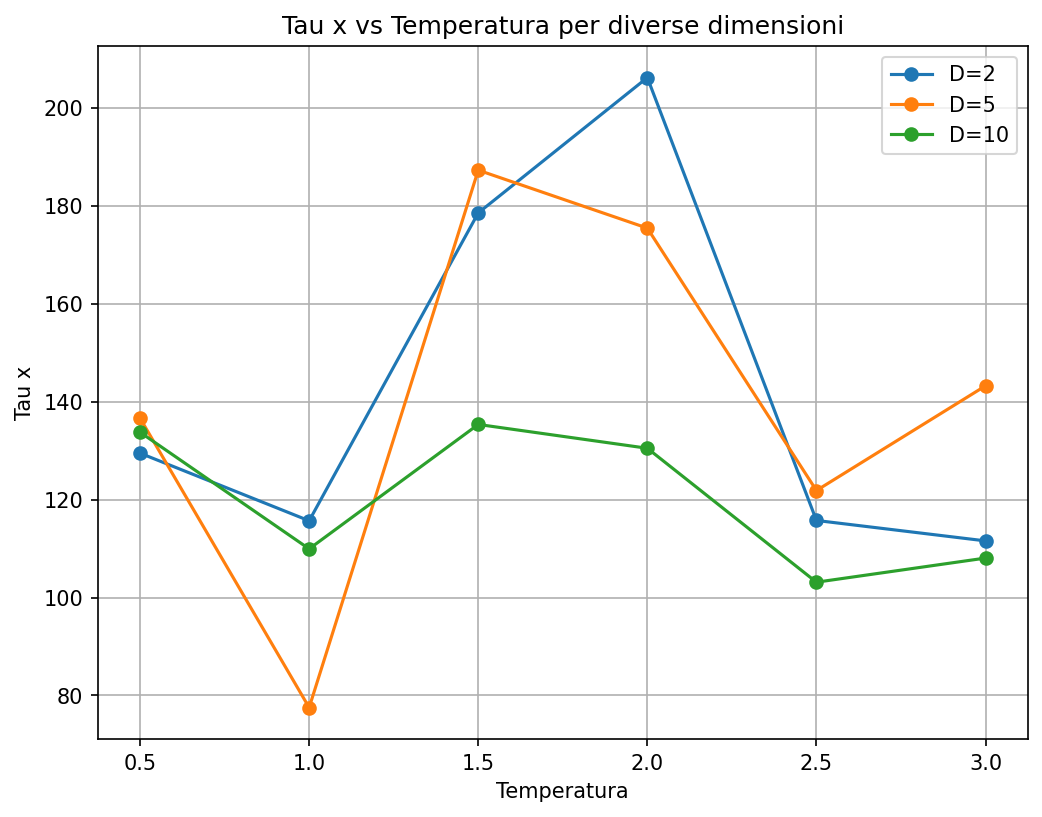
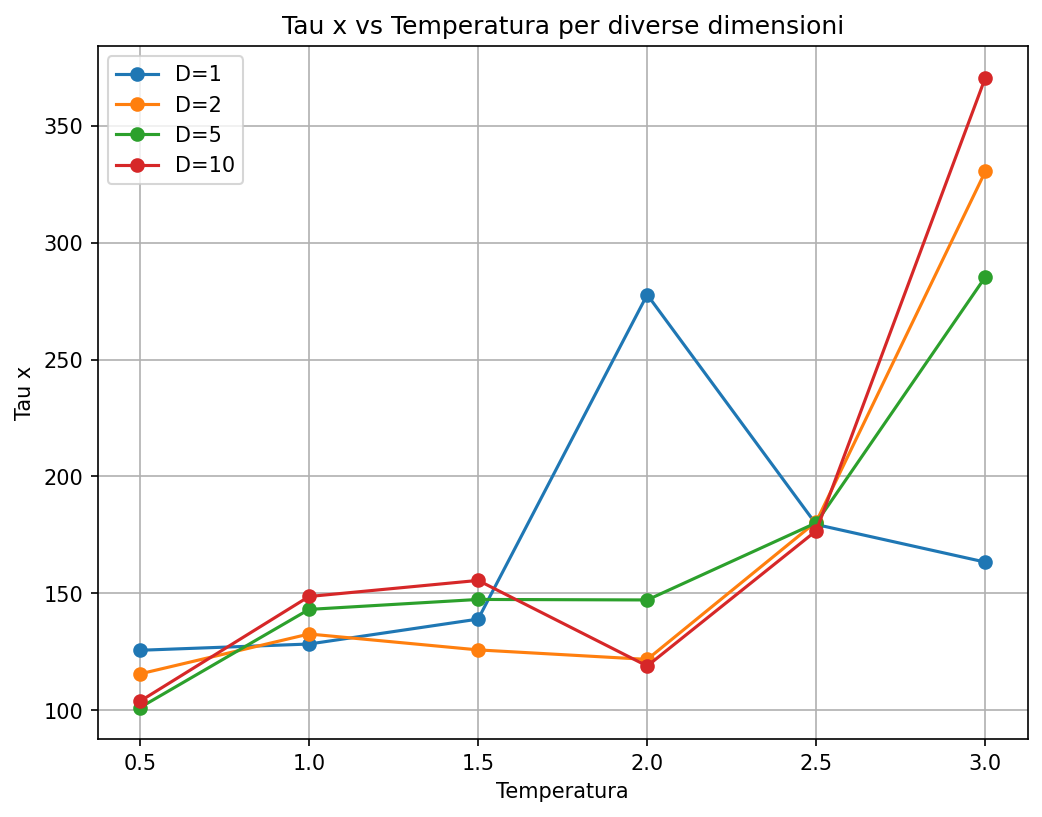
minor changes

diff --git a/source/metropolis.py b/source/metropolis.py
@@ -38,12 +38,12 @@ def metropolis_acceptance(delta_E, T):
 @jax.jit
 def metropolis_step(x, key, T, step_size=0.1):
     D = x.shape[0]
-    # nuova configurazione proposta
+    # new proposed configuration
     eta, key = generate_normal(key,D)
     x_proposed = x + step_size * eta
-    # calcola la differenza di energia
+    # delta energy between new and old configuration
     delta_E = obs.V(x_proposed) - obs.V(x)
-    # accetta o rifiuta la nuova configurazione
+    # acceptance of the new configuration
     accept_prob = metropolis_acceptance(delta_E, T)
     u, key = generate_uniform(key)
     accept = u < accept_prob
@@ -62,7 +62,7 @@ def run_simulation(key, T, n_steps, step_size=0.1, initial_x=None):
         x, key, accepted = metropolis_step(x, key, T, step_size)
         return (x, key, acc + accepted), x
 
-    (x_final, keyfinal, acceptances), trajectory = jax.lax.scan(
+    (x, key, acceptances), trajectory = jax.lax.scan(
         body, (x, key, 0), None, length=n_steps
     )
-    return trajectory, acceptances / n_steps, keyfinal, x_final
+    return trajectory, acceptances / n_steps, key, trajectory[-1]

diff --git a/source/plot.py b/source/plot.py
@@ -31,15 +31,14 @@ def plot_obs__D_T(results, dimensions, observable):
     print(f"Grafico salvato in: {filepath}")
     plt.close()
 
-def plot_trajectory(trajectories, temperatures, dimensions):
+def plot_trajectory(trajectories, temperatures, dimensions, bins=30):
     _ensure_report_dir()
-
     #one image with subplots for each dimension and temperature
     fig, axes = plt.subplots(len(dimensions), len(temperatures), figsize=(15, 10))
     for i, D in enumerate(dimensions):
         for j, T in enumerate(temperatures):
             ax = axes[i, j]
-            ax.hist(trajectories[D][j], bins=30, density=True)
+            ax.hist(trajectories[D][j], bins=bins, density=True)
             ax.set_title(f"D={D}, T={T:.2f}")
             ax.set_xlabel("x[0]")
             ax.set_ylabel("Density")

diff --git a/source/main.py b/source/main.py
@@ -6,10 +6,10 @@ import jax.numpy as jnp
 
 
 def main():
-    dimensions = [2, 5, 10]
+    dimensions = [1, 2, 5, 10]
     temperatures = jnp.linspace(0.5, 3.0, 6)
-    n_thermalization = 20000
-    n_steps = 3000
+    n_thermalization = 40000
+    n_steps = 5000
     step_size = 0.1
     trajectories = {}
 
@@ -45,7 +45,7 @@ def main():
     plot.plot_obs__D_T(results, dimensions, "tau_x")
     plot.plot_obs__D_T(results, dimensions, "tau_x^2")
     plot.plot_obs__D_T(results, dimensions, "acceptance")
-    plot.plot_trajectory(trajectories, temperatures, dimensions)
+    plot.plot_trajectory(trajectories, temperatures, dimensions, bins=30)
 
 if __name__ == "__main__":
     main()
